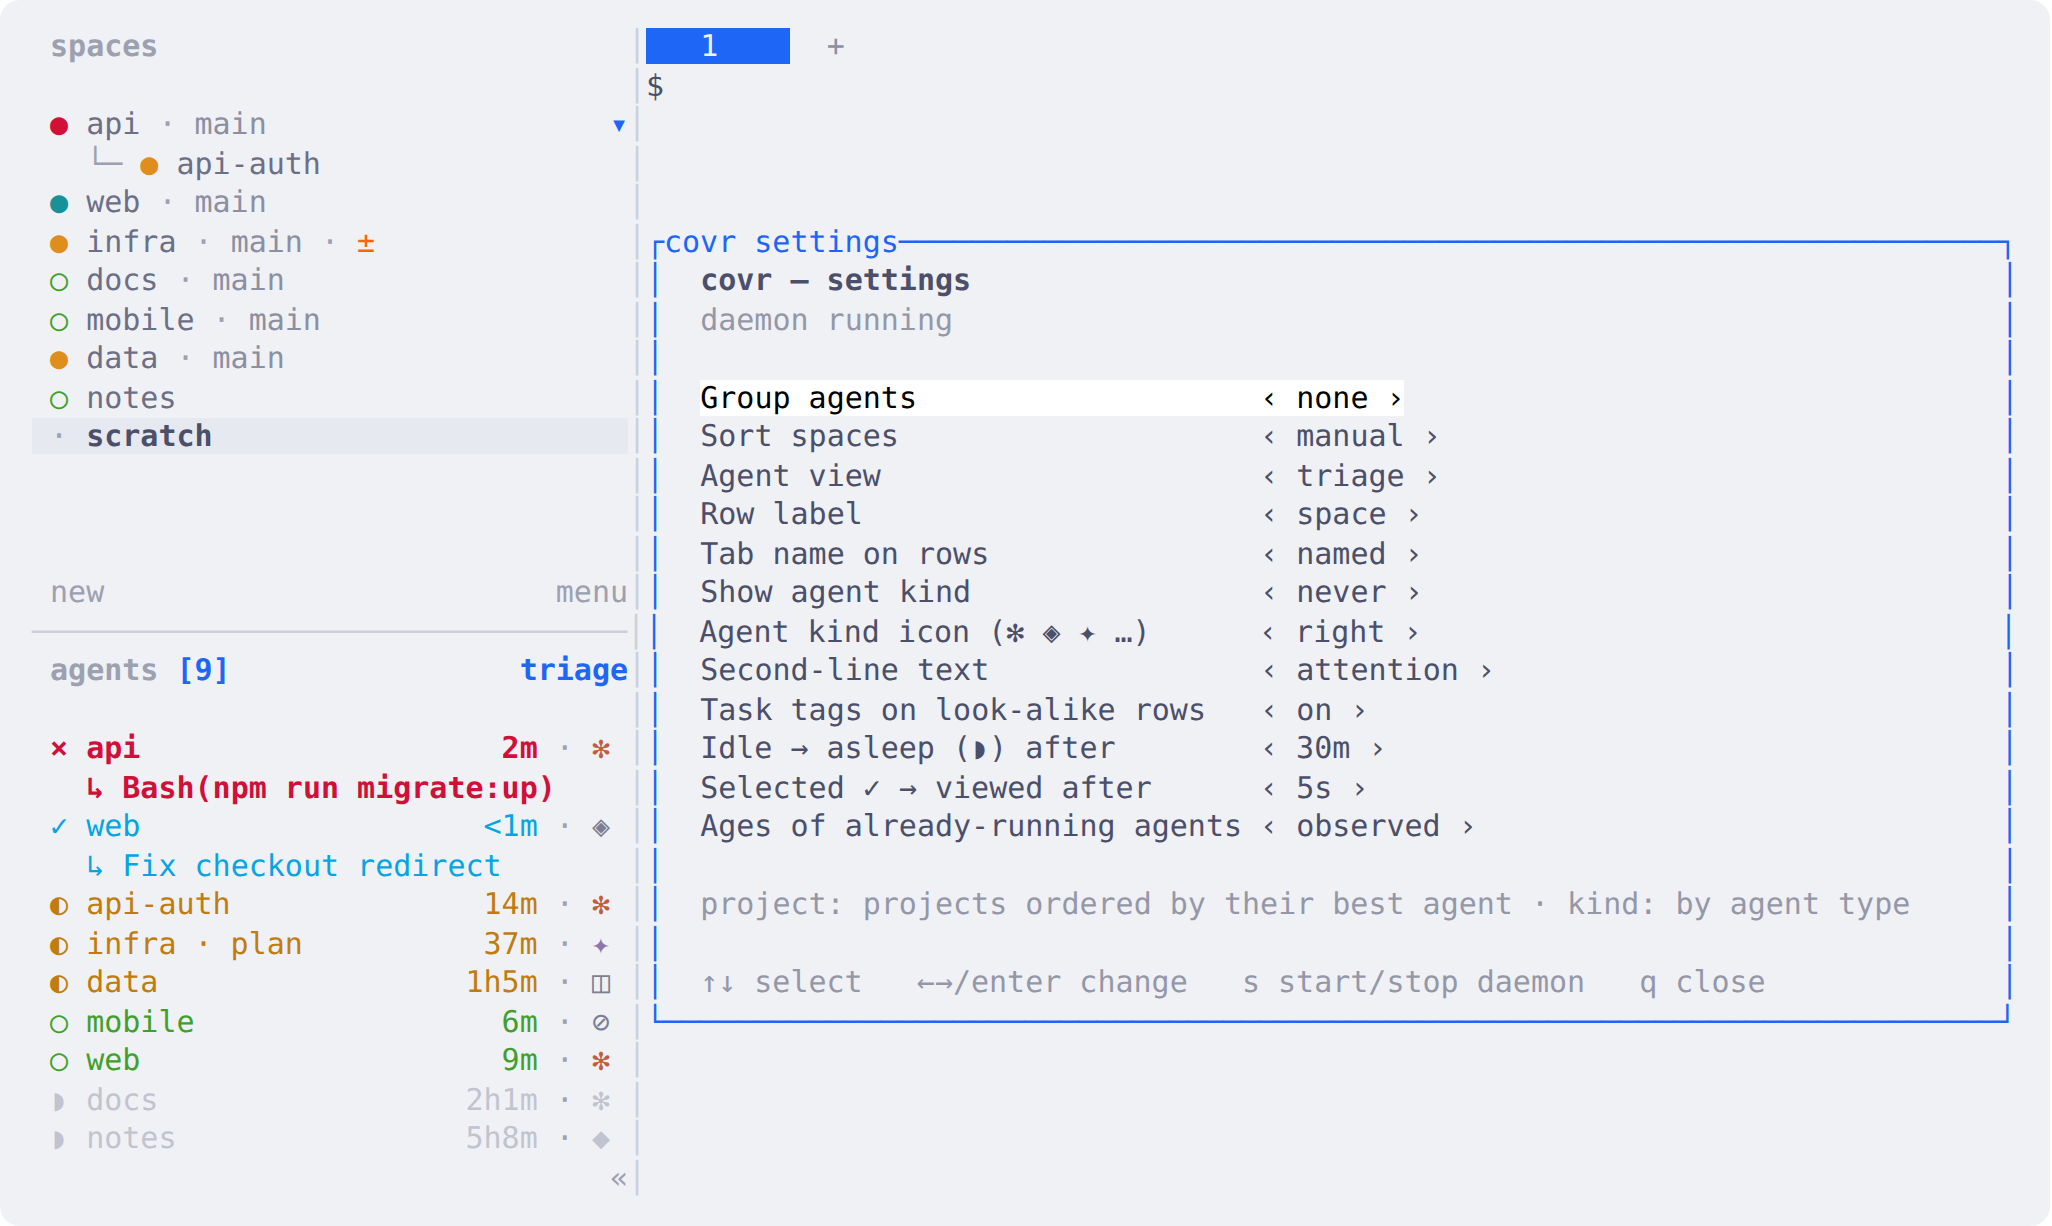
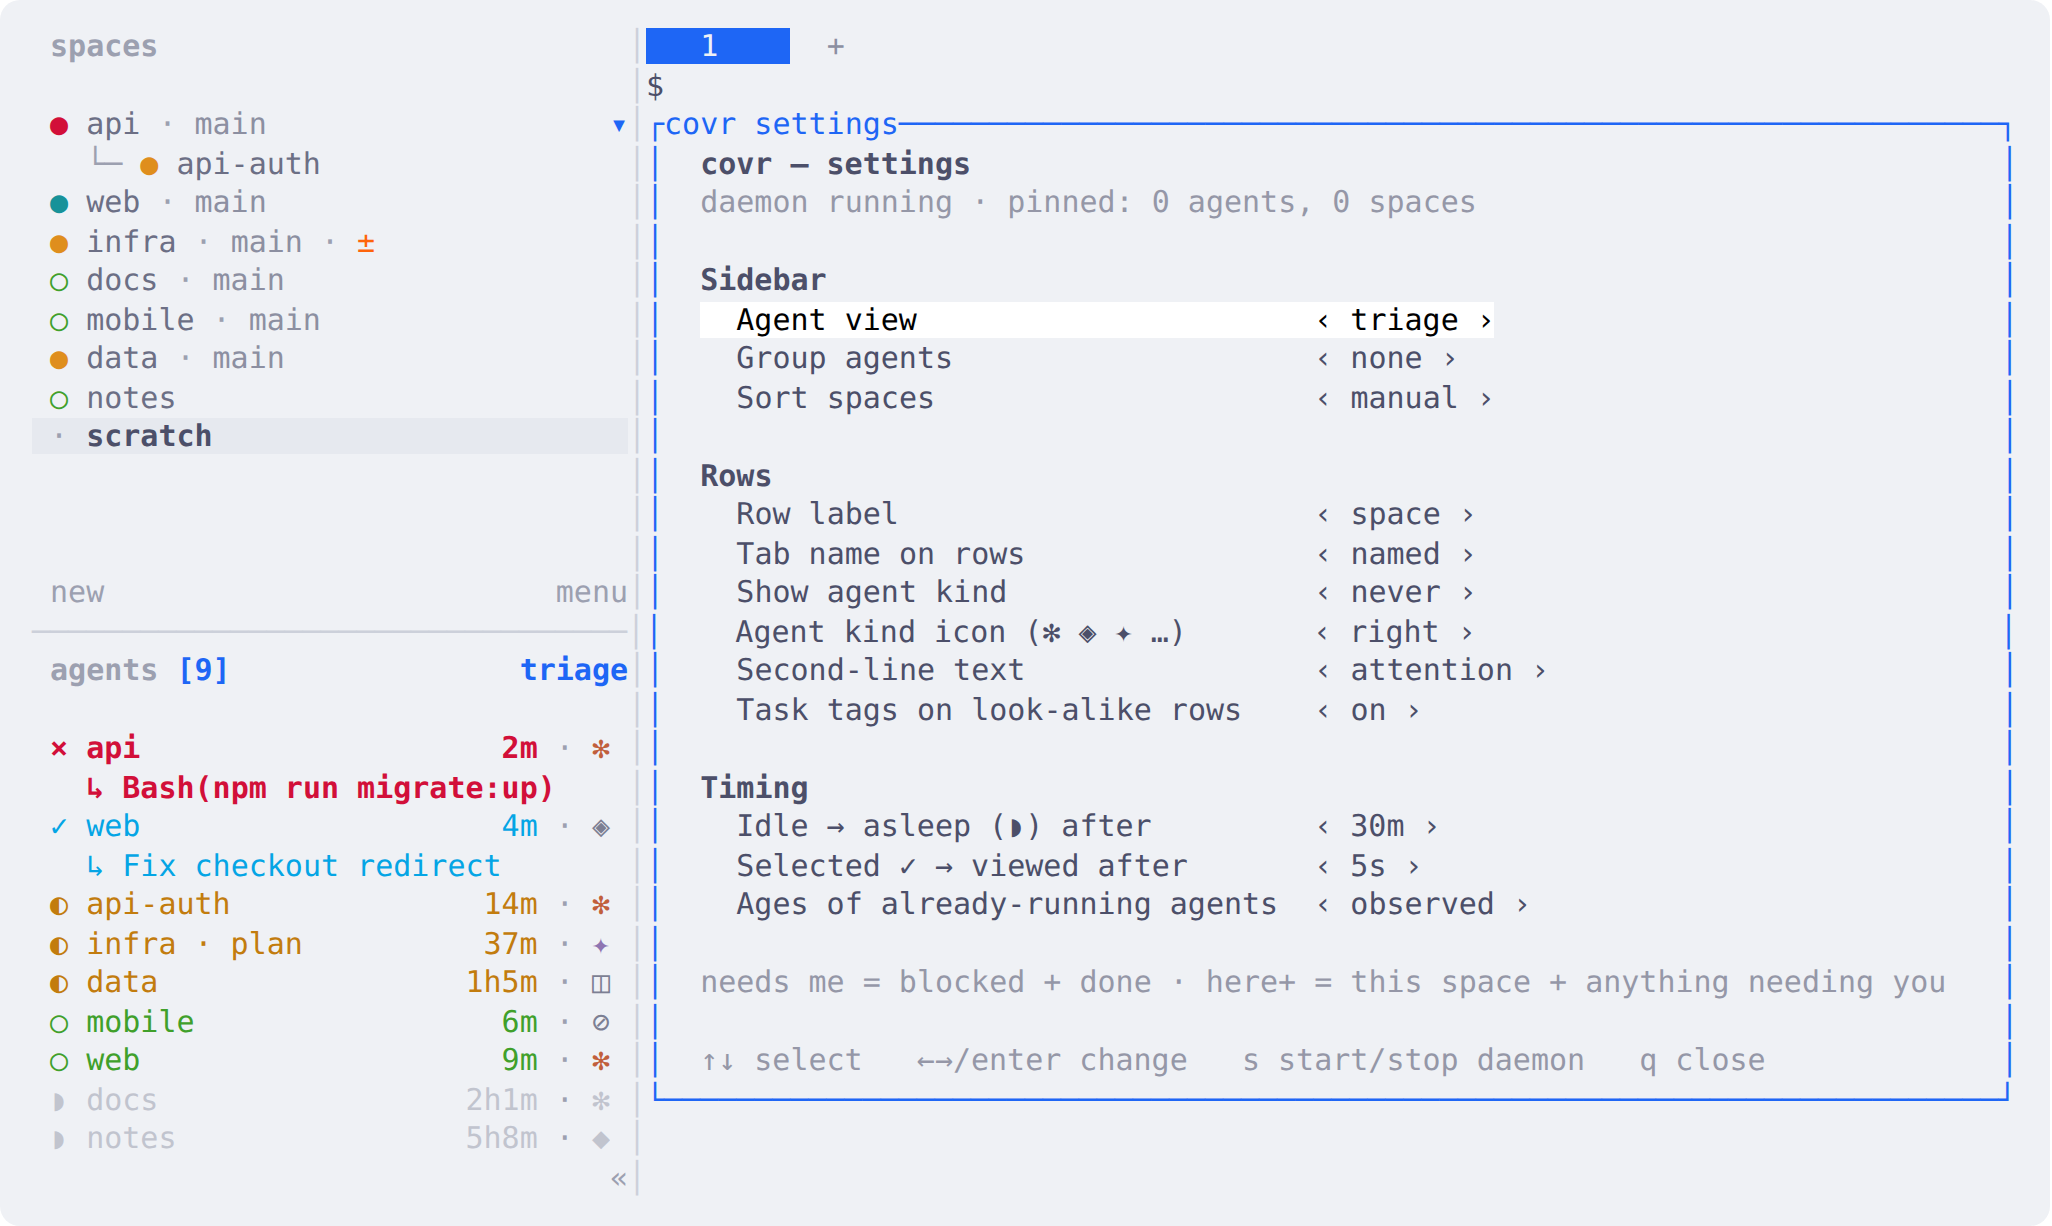
0.5.2: settings popup grouped into Sidebar, Rows and Timing
The popup is taller (21 -> 26 rows; the pinned line was being cut off) and
puts the pin count on the daemon status line. The spec's option table follows
the same sections and lists kind_icon's real default (right) first.

Changed region(s): [[0.3119, 0.093, 0.9357, 0.7439], [0.3119, 0.7749, 0.9669, 0.8989], [0.499, 0.155, 0.7173, 0.186]]

diff --git a/bin/settings.py b/bin/settings.py
@@ -10,20 +10,27 @@ import os, sys
 sys.path.insert(0, os.path.dirname(os.path.abspath(__file__)))
 import covrd  # noqa: E402
 
-ITEMS = [
-    ("group_by", "Group agents", ["none", "project", "kind"]),
-    ("space_sort", "Sort spaces", ["manual", "alpha", "recent", "activity"]),
-    ("view", "Agent view", ["triage", "needs me", "here+"]),
-    ("label", "Row label", ["space", "task"]),
-    ("show_tab", "Tab name on rows", ["named", "always", "never"]),
-    ("show_kind", "Show agent kind", ["never", "auto", "always"]),
-    ("kind_icon", "Agent kind icon (✻ ◈ ✦ …)", ["left", "inline", "right", "off"]),
-    ("show_task", "Second-line text", ["attention", "all", "never"]),
-    ("disambiguate", "Task tags on look-alike rows", [True, False]),
-    ("stale_after", "Idle → asleep (◗) after", ["15m", "30m", "1h", "2h", "4h"]),
-    ("seen_after", "Selected ✓ → viewed after", ["off", "5s", "15s", "1m"]),
-    ("age_source", "Ages of already-running agents", ["observed", "claude-transcripts"]),
+SECTIONS = [
+    ("Sidebar", [
+        ("view", "Agent view", ["triage", "needs me", "here+"]),
+        ("group_by", "Group agents", ["none", "project", "kind"]),
+        ("space_sort", "Sort spaces", ["manual", "alpha", "recent", "activity"]),
+    ]),
+    ("Rows", [
+        ("label", "Row label", ["space", "task"]),
+        ("show_tab", "Tab name on rows", ["named", "always", "never"]),
+        ("show_kind", "Show agent kind", ["never", "auto", "always"]),
+        ("kind_icon", "Agent kind icon (✻ ◈ ✦ …)", ["right", "left", "inline", "off"]),
+        ("show_task", "Second-line text", ["attention", "all", "never"]),
+        ("disambiguate", "Task tags on look-alike rows", [True, False]),
+    ]),
+    ("Timing", [
+        ("stale_after", "Idle → asleep (◗) after", ["15m", "30m", "1h", "2h", "4h"]),
+        ("seen_after", "Selected ✓ → viewed after", ["off", "5s", "15s", "1m"]),
+        ("age_source", "Ages of already-running agents", ["observed", "claude-transcripts"]),
+    ]),
 ]
+ITEMS = [item for _, items in SECTIONS for item in items]
 HELP = {
     "group_by": "project: projects ordered by their best agent · kind: by agent type",
     "space_sort": "manual never moves spaces · other modes reorder (manual order is restored)",
@@ -48,13 +55,16 @@ def show(v):
 def screen(sel, height):
     """The popup's lines as (text, style) with style in bold | dim | reverse | normal; the last line is the footer."""
     opt, pins = covrd.options(), covrd.load_pins()
+    status = "daemon running" if covrd.alive() else "daemon STOPPED (s to start)"
     lines = [("covr — settings", "bold"),
-             ("daemon running" if covrd.alive() else "daemon STOPPED (s to start)", "dim"), ("", "normal")]
-    for i, (key, label, _) in enumerate(ITEMS):
-        lines.append((f"{label:<30} ‹ {show(opt.get(key))} ›", "reverse" if i == sel else "normal"))
-    lines += [("", "normal"), (HELP.get(ITEMS[sel][0], ""), "dim"), ("", "normal"),
-              (f"pinned: {len(pins['agents'])} agents · {len(pins['spaces'])} spaces"
-               "   (actions: pin-agent, pin-space)", "dim")]
+             (f"{status} · pinned: {len(pins['agents'])} agents, {len(pins['spaces'])} spaces", "dim")]
+    i = 0
+    for title, items in SECTIONS:
+        lines += [("", "normal"), (title, "bold")]
+        for key, label, _ in items:
+            lines.append((f"  {label:<31} ‹ {show(opt.get(key))} ›", "reverse" if i == sel else "normal"))
+            i += 1
+    lines += [("", "normal"), (HELP.get(ITEMS[sel][0], ""), "dim")]
     lines = lines[:max(1, height - 1)]
     lines += [("", "normal")] * max(0, height - 1 - len(lines))
     return lines + [(FOOTER, "dim")]

diff --git a/docs/spec.md b/docs/spec.md
@@ -1,6 +1,6 @@
 # covr: design and behaviour
 
-This is how covr (plugin id `covr.sidebar`, version 0.5.1) draws herdr's sidebar and how its daemon behaves. The README covers installation and a quick tour.
+This is how covr (plugin id `covr.sidebar`, version 0.5.2) draws herdr's sidebar and how its daemon behaves. The README covers installation and a quick tour.
 
 ## Agents
 
@@ -115,22 +115,24 @@ Options are stored in `$(herdr plugin config-dir covr.sidebar)/config.toml`. The
 - **Invalid values:** `set` refuses them. In a hand-edited file they are ignored, with one log line and one notification each.
 - **Old Pythons:** before Python 3.11 (no `tomllib`), the file is read by a small built-in parser.
 
-| option | values (default first) |
-|---|---|
-| `group_by` | `none` · `project` · `kind` |
-| `space_sort` | `manual` · `alpha` · `recent` · `activity` |
-| `view` | `triage` · `needs me` · `here+` |
-| `label` | `space` · `task` |
-| `show_tab` | `named` · `always` · `never` |
-| `show_kind` | `never` · `auto` (only while more than one kind runs) · `always` |
-| `kind_icon` | `left` · `inline` · `right` · `off` (where the agent kind icon goes; brand-coloured at left and right) |
-| `show_task` | `attention` (blocked reason and finished task) · `all` · `never` |
-| `disambiguate` | `true` · `false` |
-| `stale_after` | `30m`; any duration from `1m` to `30d` |
-| `seen_after` | `5s`; `off`, or any duration from `1s` to `1h` |
-| `tick_seconds` | `5`; from 2 to 60 |
-| `layout` | `auto` · `light` · `dark` (used by `install-layout`) |
-| `age_source` | `observed` · `claude-transcripts` (opt-in: reads transcript files under `~/.claude*/projects`) |
+Rows are grouped by the settings popup's sections; the last two options are file-only.
+
+| section | option | values (default first) |
+|---|---|---|
+| Sidebar | `view` | `triage` · `needs me` · `here+` |
+| | `group_by` | `none` · `project` · `kind` |
+| | `space_sort` | `manual` · `alpha` · `recent` · `activity` |
+| Rows | `label` | `space` · `task` |
+| | `show_tab` | `named` · `always` · `never` |
+| | `show_kind` | `never` · `auto` (only while more than one kind runs) · `always` |
+| | `kind_icon` | `right` · `left` · `inline` · `off` (where the agent kind icon goes; brand-coloured at left and right) |
+| | `show_task` | `attention` (blocked reason and finished task) · `all` · `never` |
+| | `disambiguate` | `true` · `false` |
+| Timing | `stale_after` | `30m`; any duration from `1m` to `30d` |
+| | `seen_after` | `5s`; `off`, or any duration from `1s` to `1h` |
+| | `age_source` | `observed` · `claude-transcripts` (opt-in: reads transcript files under `~/.claude*/projects`) |
+| file only | `tick_seconds` | `5`; from 2 to 60 |
+| | `layout` | `auto` · `light` · `dark` (used by `install-layout`) |
 
 ## Actions
 

diff --git a/README.md b/README.md
@@ -65,7 +65,7 @@ description = "covr: settings"
 
 <img src="docs/images/settings.png" alt="the covr settings popup over a herdr session">
 
-↑/↓ picks an option and ←/→ changes it; the sidebar updates straight away. `s` starts or stops the daemon.
+Options are grouped into Sidebar, Rows and Timing. ↑/↓ picks an option and ←/→ changes it; the sidebar updates straight away. `s` starts or stops the daemon.
 
 Every option is also an action you can bind: `cycle-view`, `toggle-group`, `cycle-kind`, `toggle-label`, `cycle-space-sort`, `pin-agent`, `pin-space`, `start`, `stop`, `install-layout`, `uninstall-layout`. `herdr plugin action list --plugin covr.sidebar` lists them.
 
